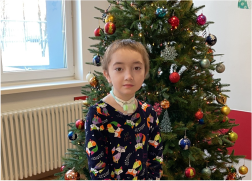
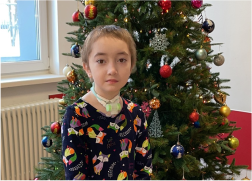
mobile swiper card fix

diff --git a/css/adaptive-mobile.css b/css/adaptive-mobile.css
@@ -207,7 +207,7 @@
   }
   .namePhotoConstell img {
     height: 100%;
-    width: 50%;
+    width: 45%;
   }
   .nameConstell_Container img {
     width: 90%;
